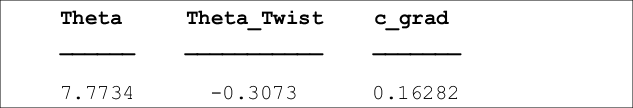
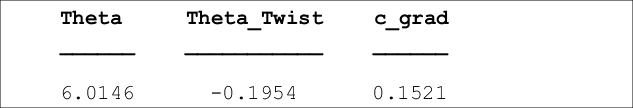
Add better sol

diff --git a/main.m b/main.m
@@ -36,7 +36,7 @@ etol=0.01;
 [logid, logpath]=createlog('Part B Optimiser');
 tic;
 
-maxiters=40;
+maxiters=25;
 progressbar('Calculating Power', 'Solving Rotor', 'Finding Local Induced Flow', 'Optimisation');
 %progressbar([],[],[], (1/maxiters));
 opts = optimset('fminsearch');
@@ -45,7 +45,7 @@ opts.TolX = 0.0001; %Tolerance on the variation in the parameters
 opts.TolFun = 0.001; %Tolerance on the error
 opts.OutputFcn = @optMonitor; %Tolerance on the error
 opts.MaxIter = maxiters-1; %Max number of iterations
-[x, diff, exitflag] = fminsearchbnd(@aepCost, [deg2rad(13) deg2rad(-0.4) 0.1], [deg2rad(2) deg2rad(-2) 0], [deg2rad(20) deg2rad(-0.1) 0.9], opts);
+[x, diff, exitflag] = fminsearchbnd(@aepCost, [deg2rad(2.5) deg2rad(-1) 0.3], [deg2rad(2) deg2rad(-2) 0], [deg2rad(20) deg2rad(-0.1) 0.9], opts);
 xdeg=[rad2deg(x(1)),rad2deg(x(2)),x(3)];
 if exitflag==1
     disp('Optimiser SOLVED.');
